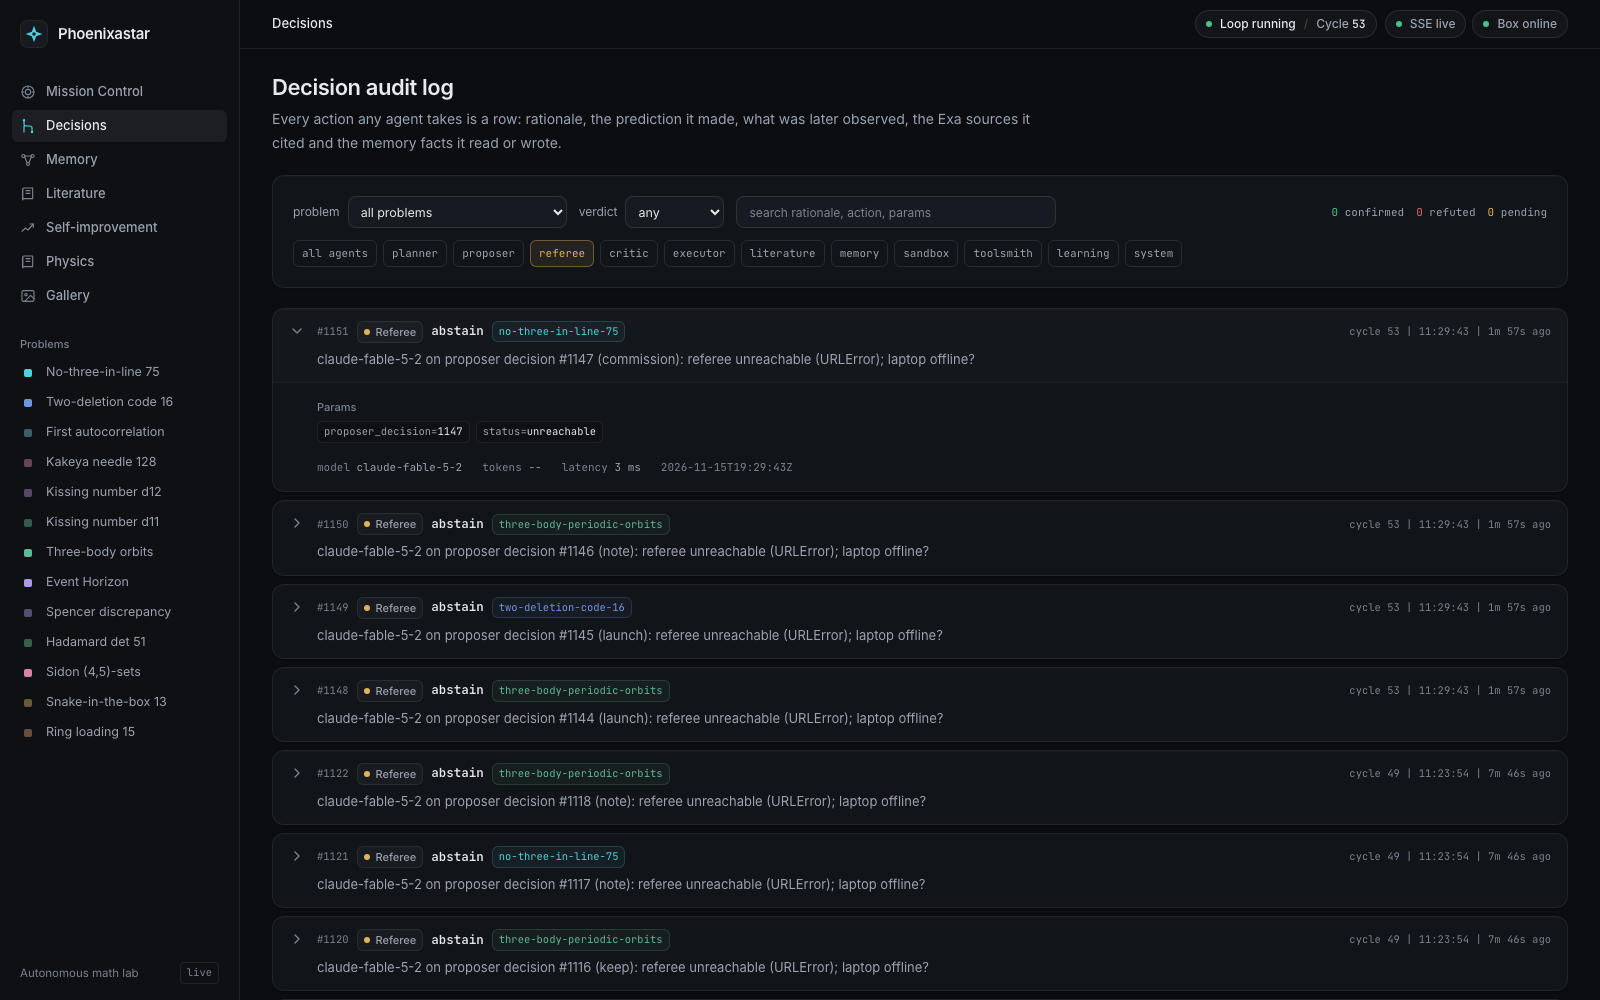
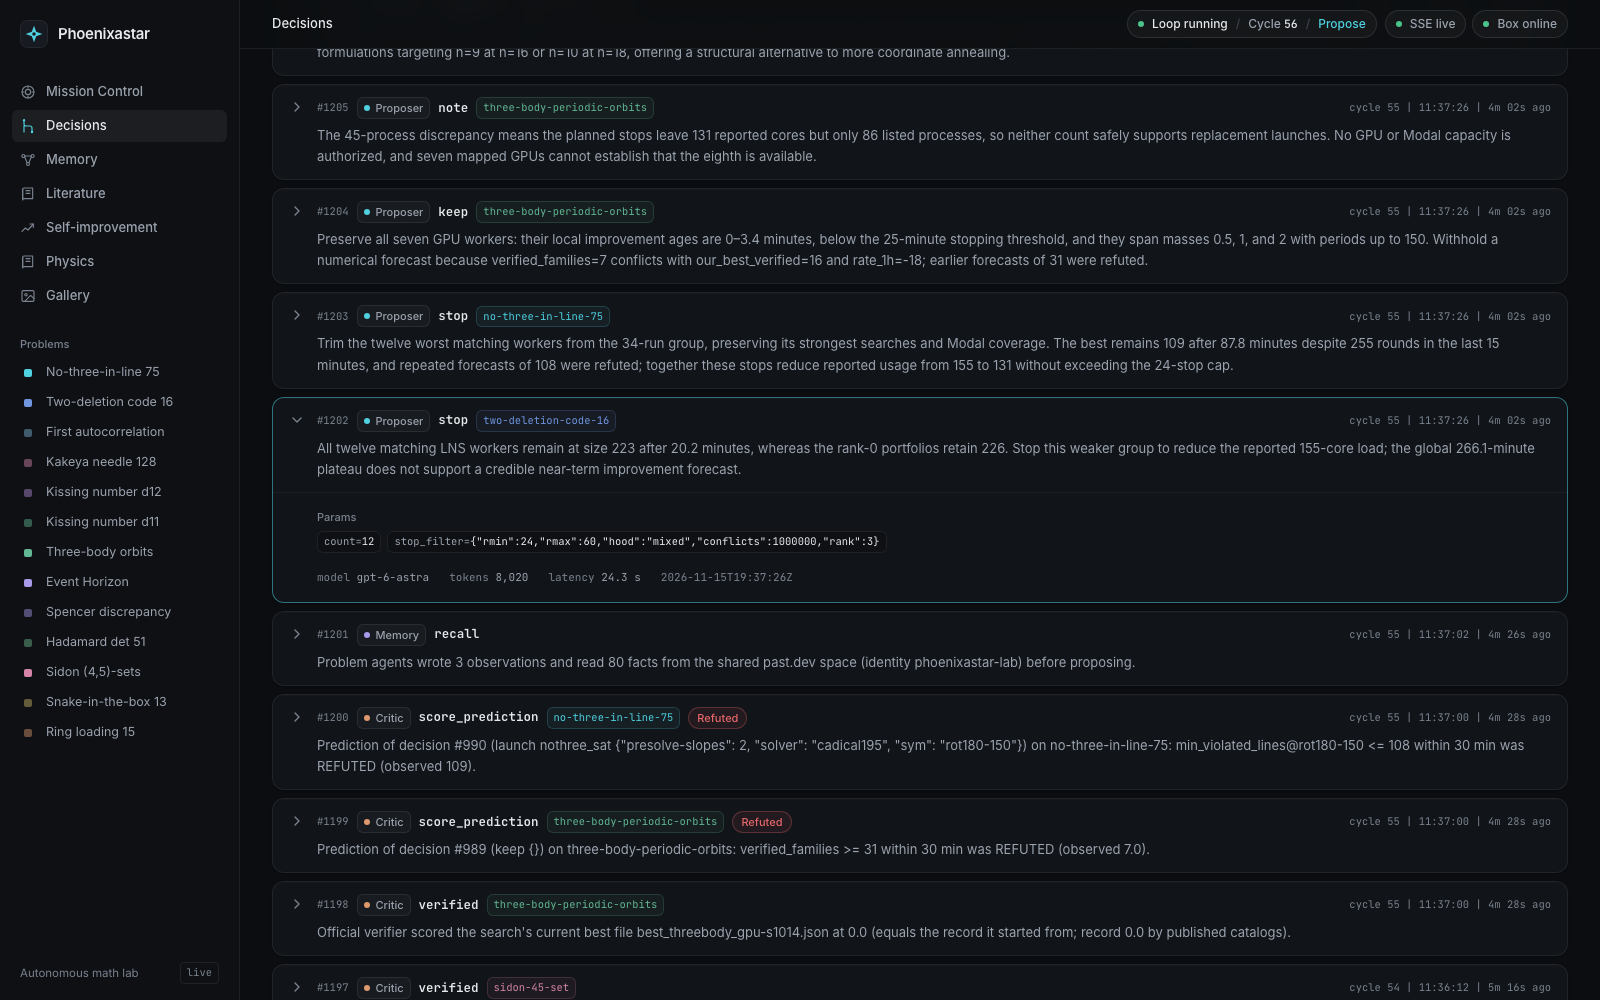
Update root: README.md; docs: decisions.png

diff --git a/README.md b/README.md
@@ -58,6 +58,8 @@ real-time 3D scene built from real data (drag to rotate, pinch to zoom, tap to i
 | **Mission Control.** Loop status and phase, the 8 x A100 + 124-core + Modal compute map, the problem portfolio and the live decision feed. | **A problem page.** The current construction as an interactive 3D lattice, the leaderboard, live metric history, running strategies and the official verifier one click away. |
 | <img src="docs/assets/screens/physics.png" alt="Physics page with the interactive three-body viewer" width="100%"> | <img src="docs/assets/screens/memory.png" alt="Shared memory graph and benchmark" width="100%"> |
 | **Physics.** The three-body candidates integrated live in the browser (play, scrub, pick any of 17) next to their verified initial conditions. | **Memory.** Which agent read which agent's facts through past.dev, and the benchmark against markdown and RAG. |
+| <img src="docs/assets/screens/decisions.png" alt="The decision log" width="100%"> | <img src="docs/assets/screens/gallery.png" alt="Gallery with interactive scenes" width="100%"> |
+| **Decisions.** Every move with its rationale, parameters, model, tokens and latency; the critic marks predictions confirmed or refuted against what actually happened. | **Gallery.** Interactive 3D scenes (lattice, Hadamard city, snake, three-body orbits) and Blender renders, all from the run's real data. |
 
 ## What it does
 
